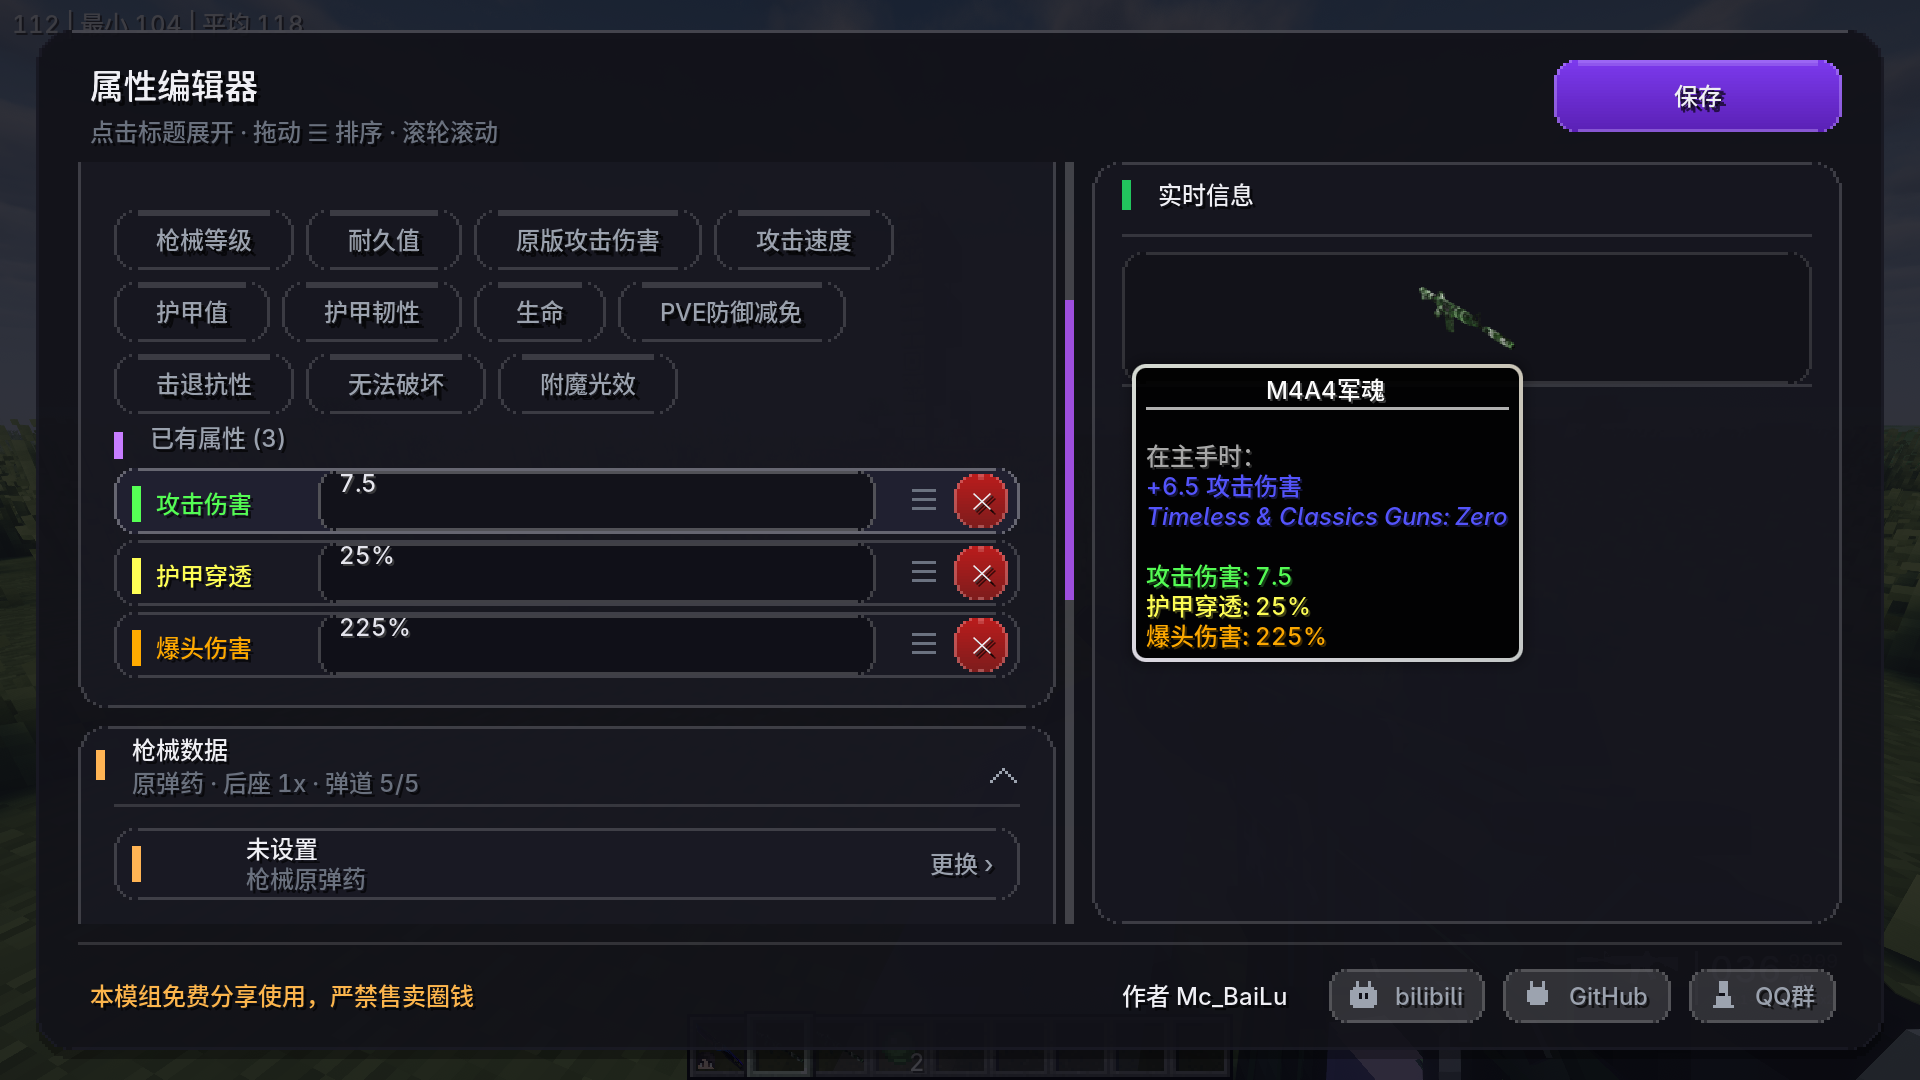
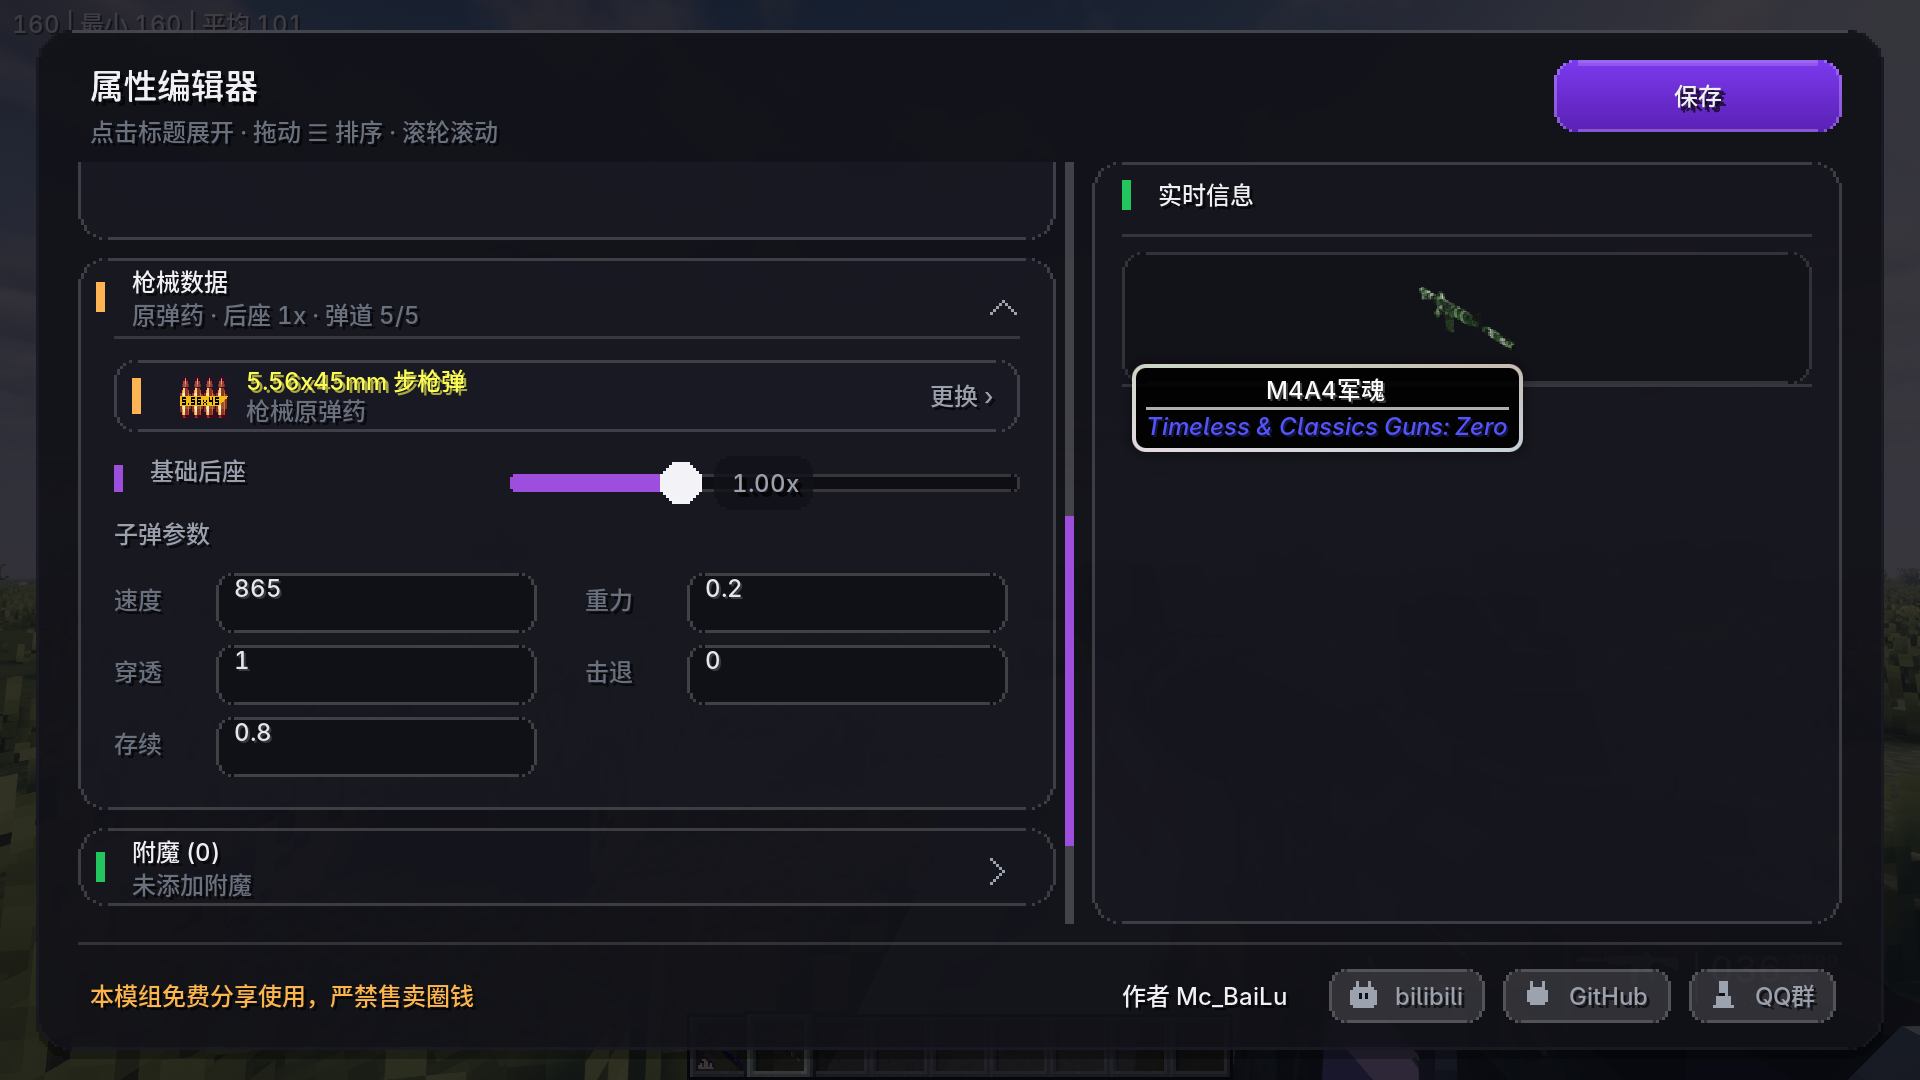
docs: 更新界面截图（属性卡片 / 枪械数据 / 附魔编辑）
- 新增 属性编辑主界面、枪械数据卡片、附魔编辑 三张实机截图

- 替换旧的枪械数据截图（旧图主弹药显示为未设置）

- README 界面预览章节按卡片类型重新组织

diff --git a/README.md b/README.md
@@ -58,11 +58,23 @@
 
 ## 界面预览
 
-### 编辑器主界面（属性卡片 · 枪械数据卡片）
+### 属性编辑（主界面）
 
-<img src="docs/editor-gun-card.png" alt="编辑器主界面" width="100%">
+<img src="docs/editor-attributes.png" alt="属性编辑主界面" width="100%">
 
 左侧是卡片式编辑区（点击标题展开/收起、拖动 `☰` 排序、滚轮滚动），右侧是**实时信息**栏，直接渲染该物品当前的真实提示框。
+
+### 枪械数据（仅 TACZ 枪械显示）
+
+<img src="docs/editor-gun-card.png" alt="枪械数据卡片" width="100%">
+
+主弹药切换、子弹弹道参数覆盖与基础后座倍率滑条 —— 这张卡片只在编辑 TACZ 枪械时出现。
+
+### 附魔编辑
+
+<img src="docs/editor-enchant.png" alt="附魔编辑界面" width="100%">
+
+独立分栏界面：左侧搜索并点击添加，右侧调整等级（`−` / `＋`）或移除。
 
 ### 显示设置与实时预览
 
